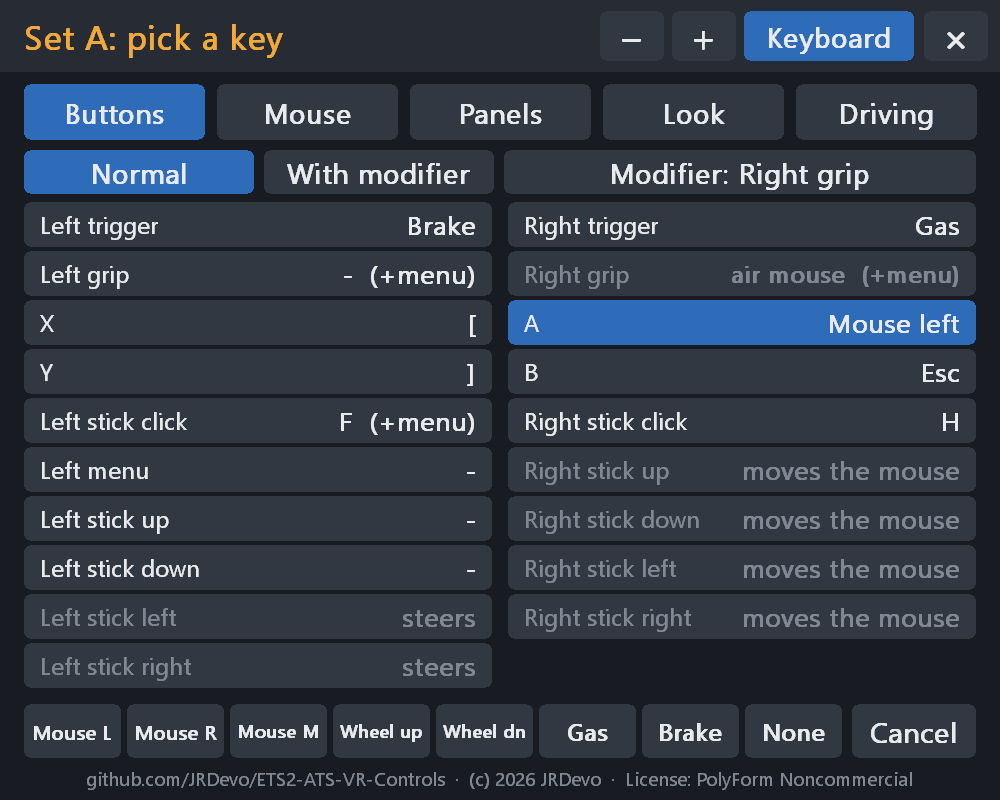
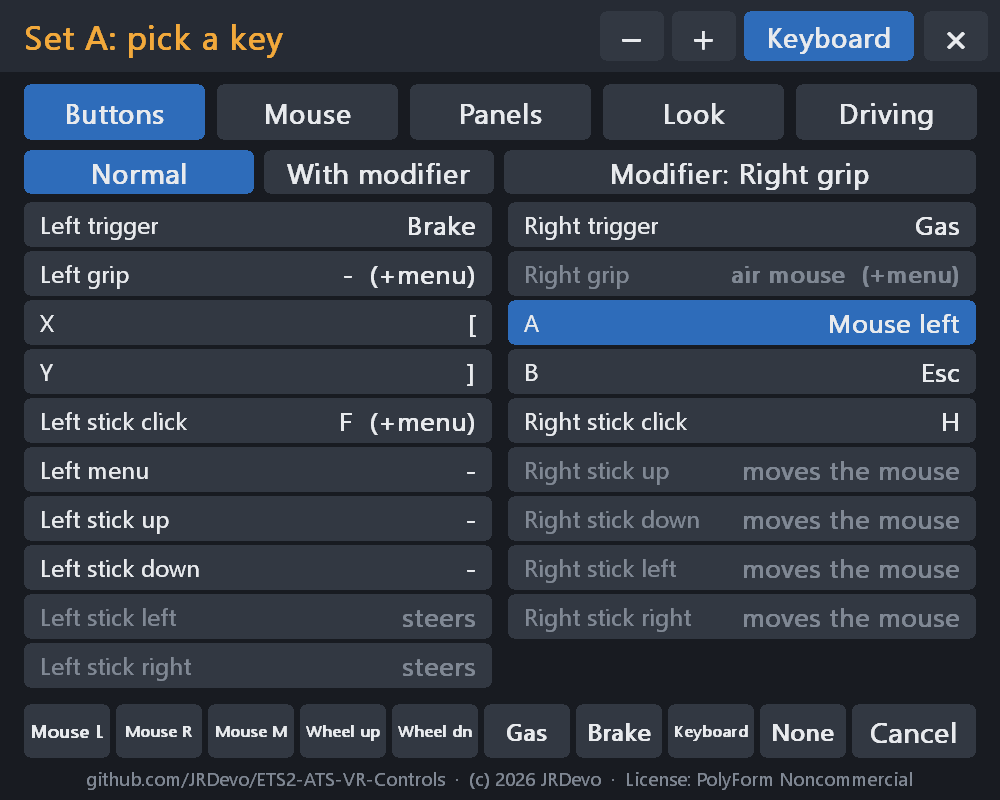
A button can show / hide the VR keyboard ("keyboard" output)
The user wants a controller button as the keyboard hotkey. New OutKind kKeyboard ("keyboard" in config.ini, Keyboard in
the menu's pick bar, also as a modifier entry): each press counts one toggle in the Mapper (TakeKeyboardToggles, no key
sent); PadInput hands it to VrMenu::ToggleKeyboard (= the keyboard's own show / hide, saved as keyboard_show). No default
button. Pick bar: 9 entries. Tests: pad_map_test, vr_menu_test, e2e case kbkey (Y twice: the keyboard quad appears and
goes, keyboard_show = 0 written, no key). README / config.ini.

Changed region(s): [[0.031, 0.875, 0.868, 0.9688]]

diff --git a/src/pad_map.h b/src/pad_map.h
@@ -38,7 +38,8 @@ constexpr float kPressAt = 0.75f, kReleaseAt = 0.55f;   // trigger / grip / stic
 constexpr uint16_t kExt = 0x100;
 // kGas / kBrake: driving pedals -- not a key: how far the button is pressed (a trigger / grip / stick direction: analog, any
 // other button: full) goes to the game as the gas / brake pedal (Sink::Drive, scs_input.h)
-enum OutKind : uint8_t { kNone, kKeys, kMouseL, kMouseR, kMouseM, kWheelUp, kWheelDown, kGas, kBrake };
+// kKeyboard: a press shows / hides the VR keyboard (vr_menu.h; Mapper::TakeKeyboardToggles)
+enum OutKind : uint8_t { kNone, kKeys, kMouseL, kMouseR, kMouseM, kWheelUp, kWheelDown, kGas, kBrake, kKeyboard };
 struct Out { uint8_t kind = kNone; uint8_t n = 0; uint16_t code[3] = {}; };
 
 // scan code of one key name (case-insensitive); 0 = unknown
@@ -99,6 +100,7 @@ inline bool ParseOut(const char* in, Out* o) {
     if (!_stricmp(buf, "wheel_down")) { o->kind = kWheelDown; return true; }
     if (!_stricmp(buf, "gas") || !_stricmp(buf, "throttle") || !_stricmp(buf, "accelerate")) { o->kind = kGas; return true; }
     if (!_stricmp(buf, "brake")) { o->kind = kBrake; return true; }
+    if (!_stricmp(buf, "keyboard")) { o->kind = kKeyboard; return true; }
     Out r;
     r.kind = kKeys;
     char* part = buf;
@@ -140,6 +142,7 @@ inline void OutToString(const Out& o, char* buf, size_t cap) {
     case kWheelDown: strncpy_s(buf, cap, "wheel_down", _TRUNCATE); return;
     case kGas: strncpy_s(buf, cap, "gas", _TRUNCATE); return;
     case kBrake: strncpy_s(buf, cap, "brake", _TRUNCATE); return;
+    case kKeyboard: strncpy_s(buf, cap, "keyboard", _TRUNCATE); return;
     case kKeys: break;
     default: strncpy_s(buf, cap, "none", _TRUNCATE); return;
     }
@@ -280,6 +283,7 @@ public:
             if (want[b]) {                             // the modifier held: its entry for this button, if it has one
                 sent_[b] = modOn && b != c.modBtn && c.modMap[b].kind != kNone ? c.modMap[b] : c.map[b];
                 notPedal_[b] = sent_[b].kind != kGas && sent_[b].kind != kBrake;   // (a click: no gas until let go)
+                if (sent_[b].kind == kKeyboard) ++kbToggles_;
                 Send(sent_[b], true, s);
             } else {
                 Send(sent_[b], false, s);              // (released as it was pressed, whatever the modifier does now)
@@ -368,6 +372,7 @@ public:
     bool Down(int b) const { return b >= 0 && b < kBtnCount && down_[b]; }
     bool AirOn() const { return airOn_; }
     float Driving(int i) const { return i >= 0 && i < 3 ? drive_[i] : 0.0f; }   // the last steer / gas / brake sent
+    int TakeKeyboardToggles() { const int n = kbToggles_; kbToggles_ = 0; return n; }   // "keyboard" presses since the last call
 
 private:
     void Want(const Frame& f, const Config& c, bool* w) const {
@@ -427,7 +432,8 @@ private:
         }
     }
     bool   down_[kBtnCount] = {};
-    bool   notPedal_[kBtnCount] = {};                  // pressed as a key / click: not a pedal until fully let go
+    bool   notPedal_[kBtnCount] = {};
+    int    kbToggles_ = 0;                  // pressed as a key / click: not a pedal until fully let go
     Out    sent_[kBtnCount];                           // what each held button sent when it went down
     bool   airOn_ = false;
     bool   airLatch_ = false;                          // toggle mode: the air mouse is switched on

diff --git a/src/vr_menu.cpp b/src/vr_menu.cpp
@@ -684,10 +684,11 @@ void VrMenu::LayoutMenu() {
                     combo && !layer_ ? val + "  (+menu)" : val);
             }
         if (picking) {
-            static const int kOuts[8] = { VrPad::kMouseL, VrPad::kMouseR, VrPad::kMouseM, VrPad::kWheelUp, VrPad::kWheelDown,
-                                          VrPad::kGas, VrPad::kBrake, VrPad::kNone };
-            static const char* const kOutNames[8] = { "Mouse L", "Mouse R", "Mouse M", "Wheel up", "Wheel dn", "Gas", "Brake", "None" };
-            for (int i = 0; i < 8; ++i) add(ePickOut, kOuts[i], 24 + i * 103, 704, 97, 54, kOutNames[i]);
+            static const int kOuts[9] = { VrPad::kMouseL, VrPad::kMouseR, VrPad::kMouseM, VrPad::kWheelUp, VrPad::kWheelDown,
+                                          VrPad::kGas, VrPad::kBrake, VrPad::kKeyboard, VrPad::kNone };
+            static const char* const kOutNames[9] = { "Mouse L", "Mouse R", "Mouse M", "Wheel up", "Wheel dn", "Gas", "Brake",
+                                                      "Keyboard", "None" };
+            for (int i = 0; i < 9; ++i) add(ePickOut, kOuts[i], 24 + i * 92, 704, 86, 54, kOutNames[i]);
             add(ePickCancel, 0, 852, 704, 124, 54, "Cancel");
         } else {
             add(eInfo, 0, 24, 704, 742, 54, !status_.empty() ? status_

diff --git a/tests/pad_map_test.cpp b/tests/pad_map_test.cpp
@@ -353,6 +353,21 @@ int main() {
         mr.Step(k, true, 0.011, rs, rr);
         CHECK(rr.drv[0] == -1.0f && rr.mx == 0 && rr.Take().empty(), "steer = right: the right stick steers");
     }
+    {   // a button set to "keyboard": each press is one show / hide of the VR keyboard (PadInput asks the Mapper)
+        Config c = DefaultConfig();
+        CHECK(ParseOut("keyboard", &c.map[kY]) && c.map[kY].kind == kKeyboard, "keyboard parses");
+        char ob[32];
+        OutToString(c.map[kY], ob, sizeof(ob));
+        CHECK(!strcmp(ob, "keyboard"), "keyboard written back (%s)", ob);
+        Mapper mp; Rec r; Frame f;
+        f.hand[0] = true;
+        for (int i = 0; i < 2; ++i) {
+            f.sec[0] = true; mp.Step(f, true, 0.011, c, r);
+            f.sec[0] = false; mp.Step(f, true, 0.011, c, r);
+        }
+        CHECK(mp.TakeKeyboardToggles() == 2 && mp.TakeKeyboardToggles() == 0 && r.Take().empty() && r.drives == 0,
+              "Y pressed twice: 2 toggles, no key");
+    }
     {   // drive = 0 (the menu's switch): nothing driven, the gas trigger is quiet, the steering stick's left / right are keys
         Config c = DefaultConfig();
         c.drive = false;

diff --git a/src/config.cpp b/src/config.cpp
@@ -206,7 +206,7 @@ Config ParseConfig(const std::string& text) {
         if (b >= 0) {
             VrPad::Out o;
             if (VrPad::ParseOut(val.c_str(), &o)) c.pad.map[b] = o;
-            else bad("not a key name / mouse_left / mouse_right / mouse_middle / wheel_up / wheel_down / gas / brake / none");
+            else bad("not a key name / mouse_left / mouse_right / mouse_middle / wheel_up / wheel_down / gas / brake / keyboard / none");
             continue;
         }
         c.notes.push_back("line " + std::to_string(lineNo) + ": unknown key '" + key + "' -- ignored");
@@ -371,6 +371,7 @@ std::string DescribePad(const VrPad::Config& p) {
         case VrPad::kWheelDown: snprintf(v, sizeof(v), "wheel_down"); break;
         case VrPad::kGas: snprintf(v, sizeof(v), "gas"); break;
         case VrPad::kBrake: snprintf(v, sizeof(v), "brake"); break;
+        case VrPad::kKeyboard: snprintf(v, sizeof(v), "keyboard"); break;
         default: {
             int k = snprintf(v, sizeof(v), "scan");
             for (int i = 0; i < o.n && k > 0 && k < (int)sizeof(v); ++i) k += snprintf(v + k, sizeof(v) - k, "%s%03x", i ? "+" : " ", o.code[i]);

diff --git a/tests/vr_menu_test.cpp b/tests/vr_menu_test.cpp
@@ -380,6 +380,13 @@ int main(int argc, char** argv) {
               "Reset pressed once: nothing reset yet");
         CHECK(click(1, VrMenu::kPanMenu, VrMenu::eSet, 120) && click(1, VrMenu::kPanMenu, VrMenu::eSet, VrMenu::kResetArg) &&
               m.Pad().map[VrPad::kLGrip].kind == VrPad::kMouseR, "another press in between: Reset armed again only");
+        {                                                // a "keyboard" button: show / hide (and back)
+            const bool kb0 = m.Pan(VrMenu::kPanKb).show;
+            m.ToggleKeyboard();
+            const bool kb1 = m.Pan(VrMenu::kPanKb).show;
+            m.ToggleKeyboard();
+            CHECK(kb1 != kb0 && m.Pan(VrMenu::kPanKb).show == kb0, "ToggleKeyboard shows / hides the keyboard");
+        }
         m.Close();                                       // closing the menu disarms it
         m.Open(true, head);
         CHECK(click(1, VrMenu::kPanMenu, VrMenu::eSet, VrMenu::kResetArg) && m.Pad().map[VrPad::kLGrip].kind == VrPad::kMouseR,

diff --git a/src/vr_menu.h b/src/vr_menu.h
@@ -95,6 +95,7 @@ public:
     void ReleaseAll(VrPad::Sink& sink);           // let go of a held keyboard key / a held panel
 
     const VrPad::Config& Pad() const { return pad_; }   // the mapping in use (the menu edits it)
+    void ToggleKeyboard() { ShowKb(!pan_[kPanKb].show); }   // a button set to "keyboard" (pad_map.h kKeyboard)
     bool AnyShown() const { return pan_[0].show || pan_[1].show; }
     bool HandOnPanel(int h) const { return h >= 0 && h < 2 && (hov_[h].pan >= 0 || press_[h].pan >= 0 || grab_[h].pan >= 0 || own_[h]); }
     bool Pending() const { return kbPending_; }  // the keyboard waits for the head pose to be placed

diff --git a/src/pad_input.cpp b/src/pad_input.cpp
@@ -610,6 +610,8 @@ void PadInput::BeginFrame(XrSession s) {
     {
         Part pm(meas, &split_[1]);
         sd.mapper.Step(f, live, dt, cfg_.pad, Sink());   // (not live = everything held is released)
+        const int kb = sd.mapper.TakeKeyboardToggles();  // a button set to "keyboard": show / hide the VR keyboard
+        if (menu_ && (kb & 1)) menu_->ToggleKeyboard();
     }
     if (meas) {                                          // (SendInput ran inside the menu / the mapper: counted apart)
         split_[2] = Sink().TakeSendTime();

diff --git a/README.md b/README.md
@@ -191,7 +191,8 @@ a laser pointer. A **white dot** appears where you point, and the key under it l
   press asks "Sure?"). Only that tab changes. On the Panels tab it also brings the menu (and the keyboard, if it is shown) in front of you.
 - **Keyboard** (button at the top of the menu): a full keyboard with F-keys, arrows and number pad. A key goes down when
   you pull the trigger and up when you let go. Shift, Ctrl and Alt stay on for the next key.
-  The keyboard **stays** when the menu closes, also at the next game start (put it at the side of your cab). Its x hides it.
+  **A button for the keyboard:** Buttons tab, point at a button, pick **Keyboard** in the bottom bar. Then that button
+  shows / hides the keyboard (`y = keyboard` in `config.ini`). The keyboard **stays** when the menu closes, also at the next game start (put it at the side of your cab). Its x hides it.
   **Full or Compact** (Panels tab): Compact has only the main keys (Esc / F-keys down to Enter, Shift, Ctrl), with its
   only an x (above Backspace) to hide it: about 30 % narrower. Its size: Panels tab > Keyboard size.
 - **Move** a panel: point at it, **hold the grip** and move the controller. While you hold it, push that controller's stick
@@ -285,7 +286,7 @@ in Notepad (the VR menu's changes work at once).
 
 Button names: `ltrigger rtrigger lgrip rgrip x y a b lstick rstick menu lup ldown lleft lright rup rdown rleft rright`.
 Values: a key (`h`, `f1`, `space`, `[`), up to 3 keys with `+` (`shift+f`), `mouse_left`, `mouse_right`, `mouse_middle`,
-`wheel_up`, `wheel_down`, `gas`, `brake` (driving) or `none`.
+`wheel_up`, `wheel_down`, `gas`, `brake` (driving), `keyboard` (shows / hides the VR keyboard) or `none`.
 
 ## Problems
 
